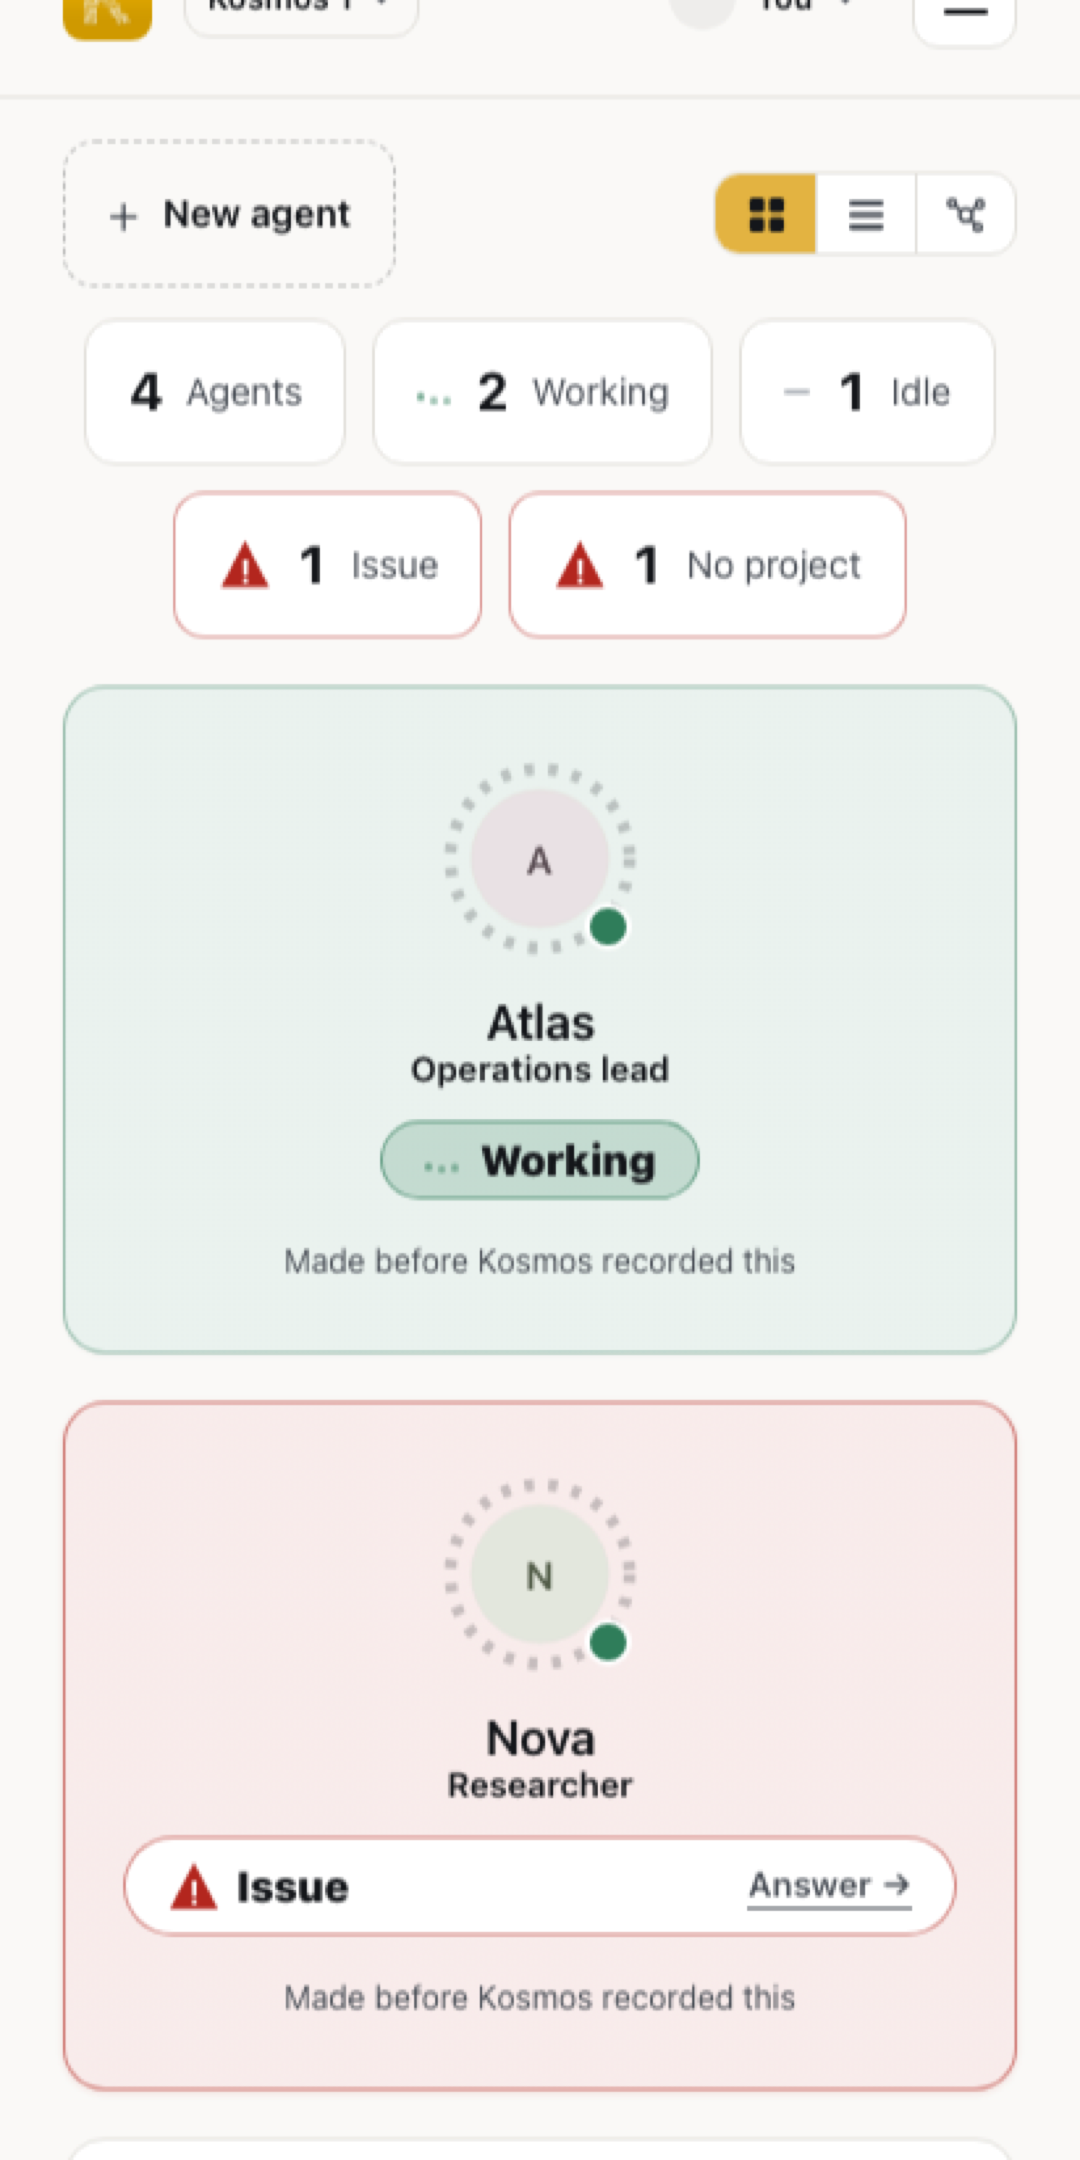
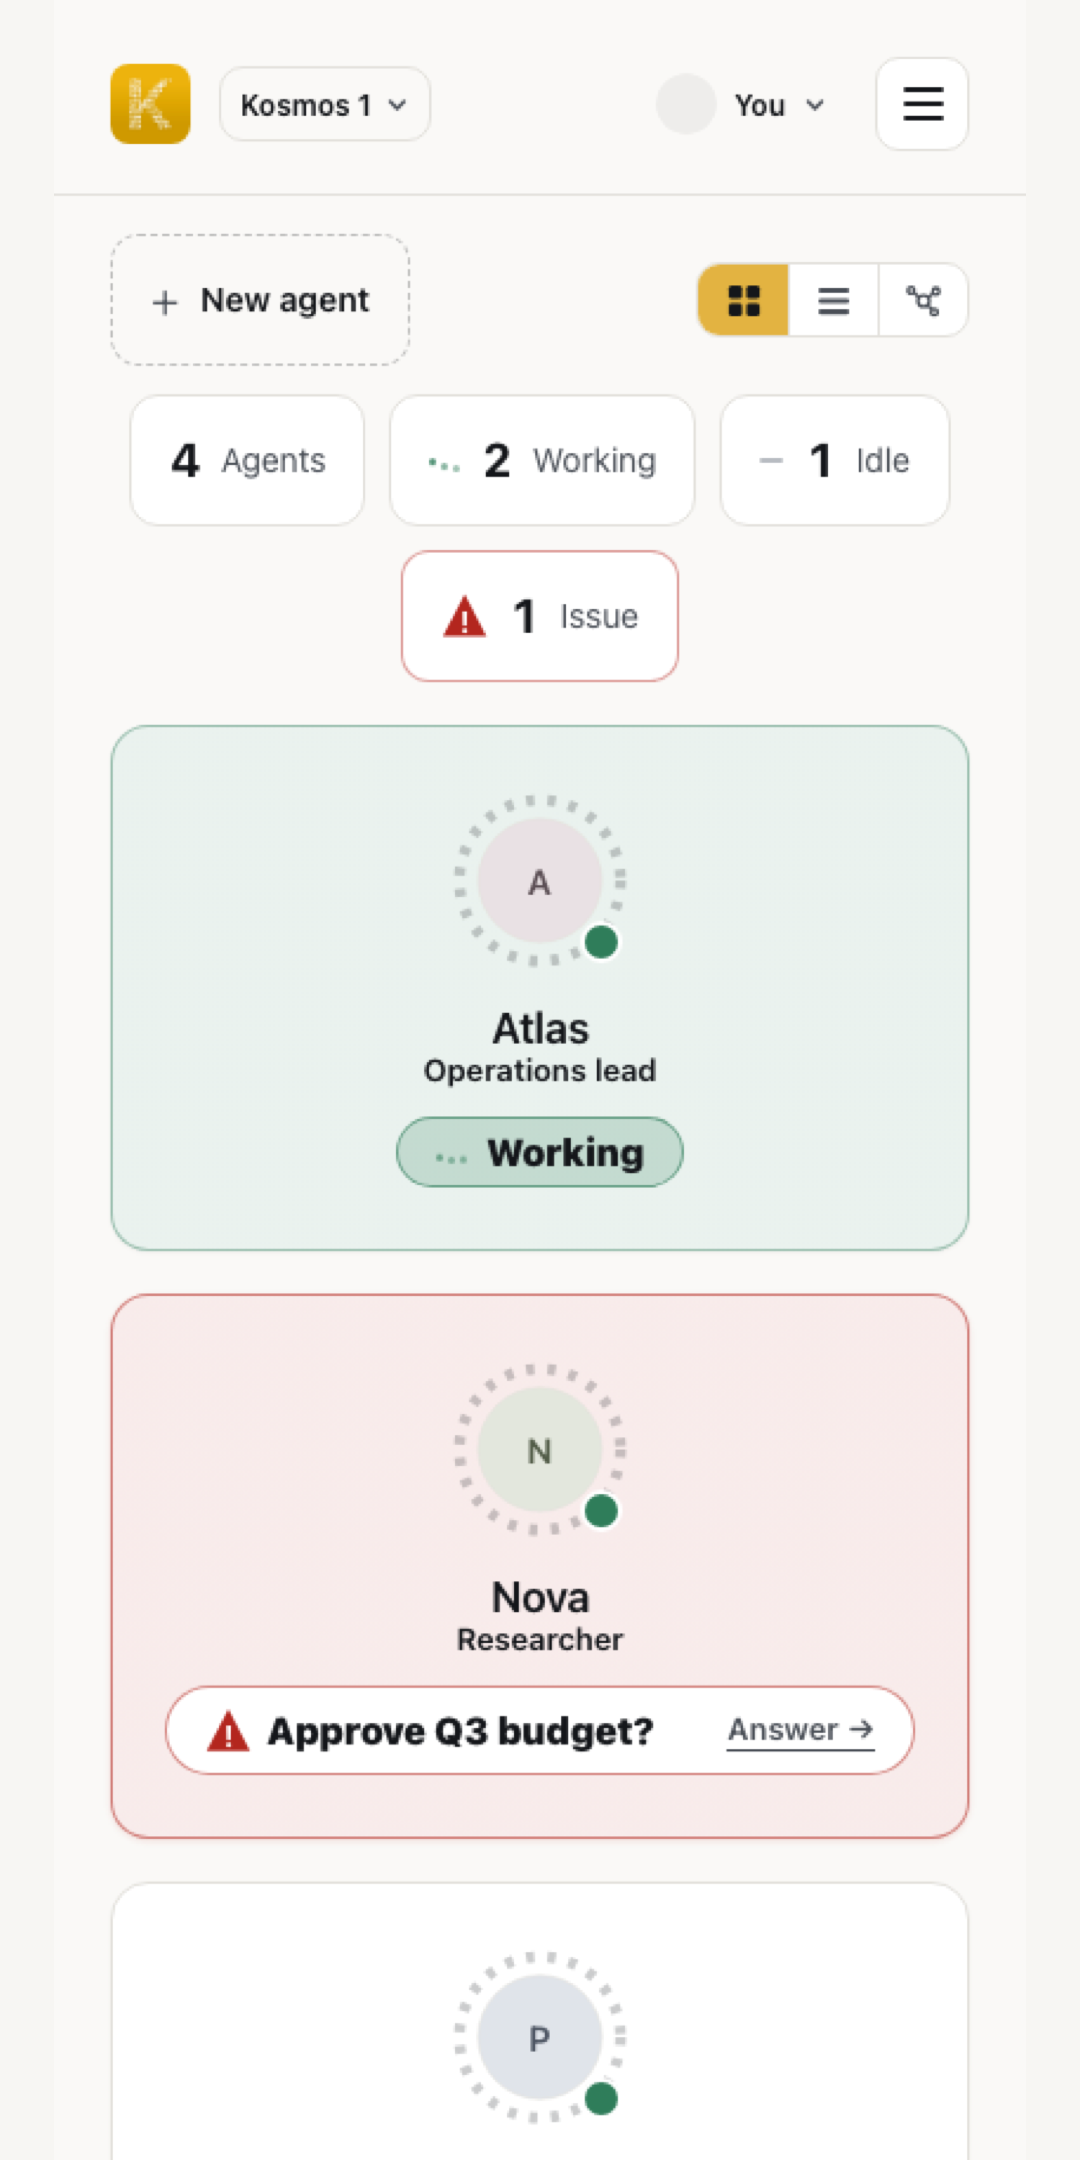
Revise Play Store phone screenshots

diff --git a/android/store/STORE_LISTING.md b/android/store/STORE_LISTING.md
@@ -48,16 +48,16 @@ A Kosmos installation and Kosmos+ account are required.
 | Phone screenshot 1 | `phone/01-team-overview.png` | 1080 × 2160 portrait |
 | Phone screenshot 2 | `phone/02-agent-needs-you.png` | 1080 × 2160 portrait |
 | Phone screenshot 3 | `phone/03-agent-workspace.png` | 1080 × 2160 portrait |
-| Phone screenshot 4 | `phone/04-kosmos-plus.png` | 1080 × 2160 portrait |
+| Phone screenshot 4 | `phone/04-project-room.png` | 1080 × 2160 portrait |
 
-The phone images are captured from the real board UI at a 412 × 915 CSS-pixel viewport using an isolated, invented demo fleet. No real account, agent, message, token, key, project, or machine data is present. Each raw capture is center-cropped to a 1:2 frame and scaled to 1080 × 2160. This satisfies Google's current phone screenshot rules: PNG or JPEG, each edge from 320 to 3840 pixels, and the long edge no more than twice the short edge. Four screenshots also meet Google's recommendation eligibility count and 1080-pixel minimum.
+The phone images are captured from the real board UI at a 412 × 915 CSS-pixel viewport using an isolated, invented demo fleet. No real account, agent, message, token, key, project, or machine data is present. Each full raw capture is scaled and padded to a 1:2 frame at 1080 × 2160 without cropping the interface. This satisfies Google's current phone screenshot rules: PNG or JPEG, each edge from 320 to 3840 pixels, and the long edge no more than twice the short edge. Four screenshots also meet Google's recommendation eligibility count and 1080-pixel minimum.
 
 Suggested alt text, each under 140 characters:
 
-1. `Kosmos team overview showing demo agents working, ready, and asking for a decision.`
-2. `A demo agent in Kosmos asking for approval, with its status and controls visible.`
-3. `A demo agent workspace showing current work and a message field.`
-4. `Kosmos+ settings for secure remote access and approved devices.`
+1. `Kosmos team overview with four demo agents, including two working and Nova asking to approve the Q3 budget.`
+2. `Nova's demo conversation ending with the question, Approve the Q3 budget draft?`
+3. `Atlas's demo conversation about a launch checklist and final asset review.`
+4. `Fall product launch room where Atlas reports on rollout and Pixel shares product copy for review.`
 
 ## Draft Data safety answers
 
